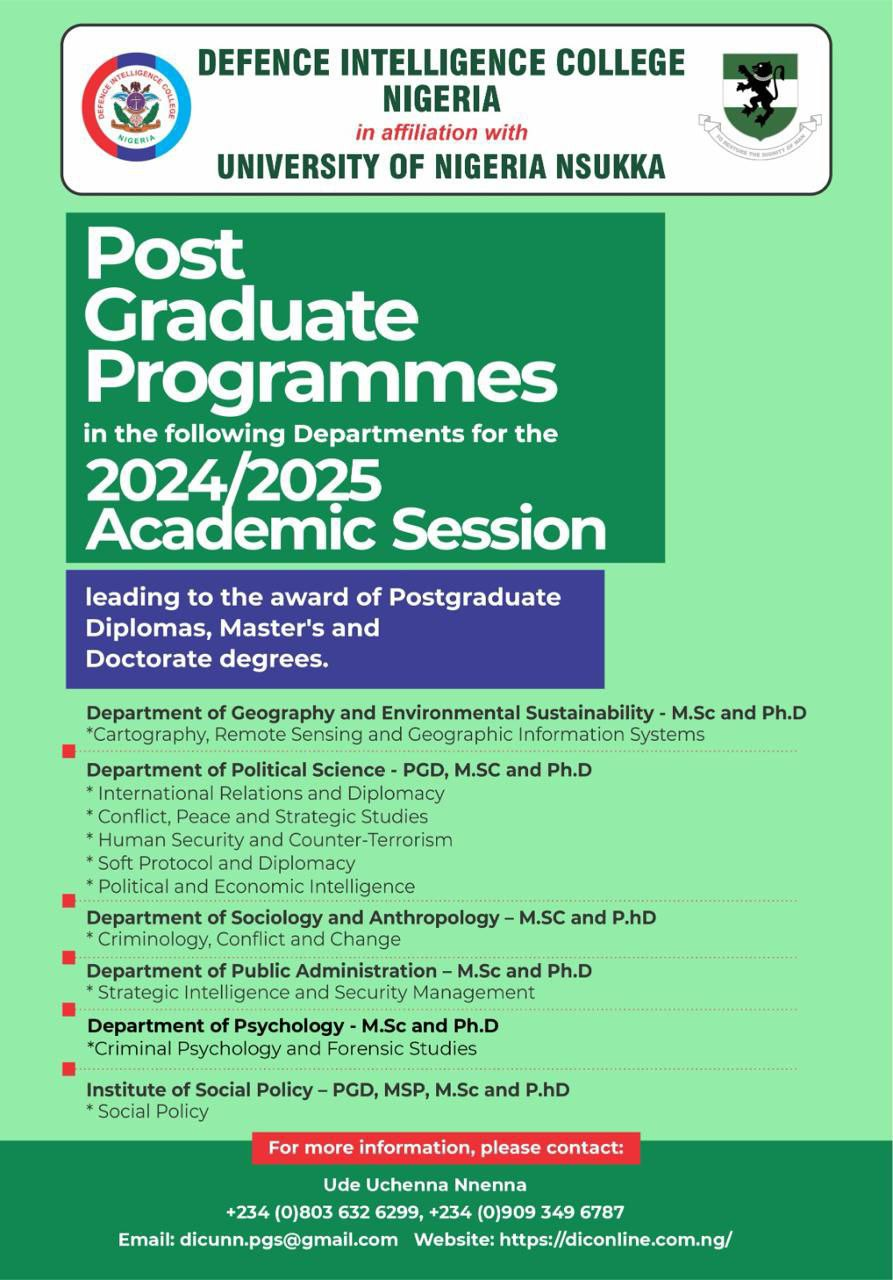
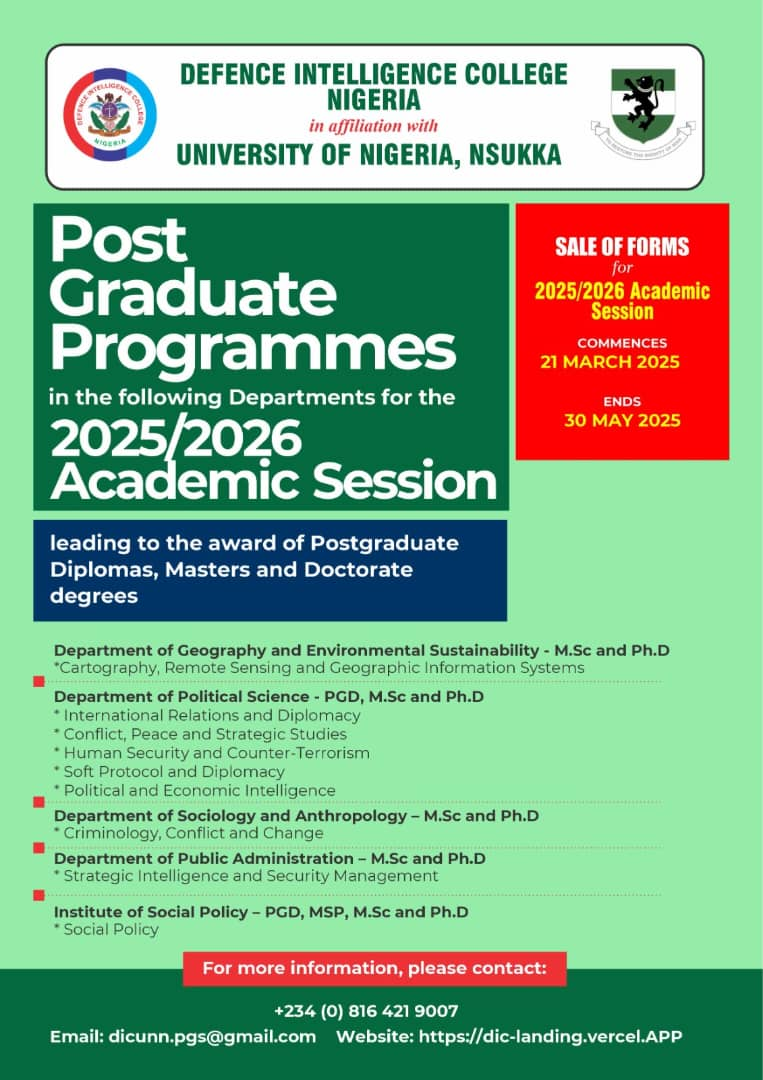
design(pg-program): changed pg-program content

diff --git a/dic/components/ui/svg-icon.tsx b/dic/components/ui/svg-icon.tsx
@@ -1,0 +1,144 @@
+export const HomeIcon = () => {
+  return (
+    <svg
+      xmlns="http://www.w3.org/2000/svg"
+      width="22"
+      height="22"
+      viewBox="0 0 1024 1024"
+    >
+      <path
+        fill="#5b63fb"
+        d="M946.5 505L534.6 93.4a31.93 31.93 0 0 0-45.2 0L77.5 505c-12 12-18.8 28.3-18.8 45.3c0 35.3 28.7 64 64 64h43.4V908c0 17.7 14.3 32 32 32H448V716h112v224h265.9c17.7 0 32-14.3 32-32V614.3h43.4c17 0 33.3-6.7 45.3-18.8c24.9-25 24.9-65.5-.1-90.5"
+      />
+    </svg>
+  );
+};
+
+export const AboutIcon = () => {
+  return (
+    <svg
+      xmlns="http://www.w3.org/2000/svg"
+      width="22"
+      height="22"
+      viewBox="0 0 20 20"
+    >
+      <path
+        fill="#5b63fb"
+        fill-rule="evenodd"
+        d="M18 10a8 8 0 1 1-16 0a8 8 0 0 1 16 0m-7-4a1 1 0 1 1-2 0a1 1 0 0 1 2 0M9 9a1 1 0 0 0 0 2v3a1 1 0 0 0 1 1h1a1 1 0 1 0 0-2v-3a1 1 0 0 0-1-1z"
+        clip-rule="evenodd"
+      />
+    </svg>
+  );
+};
+
+export const GalleryIcon = () => {
+  return (
+    <svg
+      xmlns="http://www.w3.org/2000/svg"
+      width="22"
+      height="22"
+      viewBox="0 0 24 24"
+    >
+      <path
+        fill="#5b63fb"
+        d="M18.512 10.077c0 .739-.625 1.338-1.396 1.338s-1.395-.6-1.395-1.338s.625-1.337 1.395-1.337s1.396.598 1.396 1.337"
+      />
+      <path
+        fill="#5b63fb"
+        fill-rule="evenodd"
+        d="M18.036 5.532c-1.06-.136-2.414-.136-4.123-.136h-3.826c-1.71 0-3.064 0-4.123.136c-1.09.141-1.974.437-2.67 1.104c-.696.668-1.005 1.514-1.152 2.56C2 10.21 2 11.508 2 13.147v.1c0 1.639 0 2.937.142 3.953c.147 1.045.456 1.891 1.152 2.558c.696.668 1.58.964 2.67 1.104C7.024 21 8.378 21 10.087 21h3.826c1.71 0 3.064 0 4.123-.137c1.09-.14 1.974-.436 2.67-1.104c.696-.667 1.005-1.513 1.152-2.558c.142-1.016.142-2.314.142-3.953v-.1c0-1.64 0-2.937-.142-3.953c-.147-1.045-.456-1.891-1.152-2.559c-.696-.667-1.58-.963-2.67-1.104M6.15 6.858c-.936.12-1.475.347-1.87.724c-.393.378-.629.894-.755 1.791c-.1.72-.123 1.62-.128 2.796l.47-.395c1.125-.943 2.819-.889 3.875.123l3.99 3.825a1.2 1.2 0 0 0 1.491.124l.278-.187a3.606 3.606 0 0 1 4.34.25l2.407 2.078c.098-.264.173-.58.227-.965c.128-.916.13-2.124.13-3.824s-.002-2.908-.13-3.825c-.126-.897-.362-1.413-.756-1.79c-.393-.378-.933-.604-1.869-.725c-.956-.123-2.216-.125-3.99-.125h-3.72c-1.774 0-3.034.002-3.99.125"
+        clip-rule="evenodd"
+      />
+      <path
+        fill="#5b63fb"
+        d="M17.086 2.61c-.86-.11-1.954-.11-3.319-.11h-3.09c-1.364 0-2.459 0-3.319.11c-.89.115-1.632.358-2.221.92a2.9 2.9 0 0 0-.724 1.12c.504-.23 1.074-.366 1.714-.45c1.084-.14 2.47-.14 4.22-.14h3.914c1.75 0 3.135 0 4.22.14c.558.073 1.064.186 1.519.366a2.9 2.9 0 0 0-.692-1.035c-.589-.563-1.331-.806-2.222-.92"
+      />
+    </svg>
+  );
+};
+
+export const DepartmentIcon = () => {
+  return (
+    <svg
+      xmlns="http://www.w3.org/2000/svg"
+      width="22"
+      height="22"
+      viewBox="0 0 24 24"
+    >
+      <path
+        fill="#5b63fb"
+        d="M18 15h-2v2h2m0-6h-2v2h2m2 6h-8v-2h2v-2h-2v-2h2v-2h-2V9h8M10 7H8V5h2m0 6H8V9h2m0 6H8v-2h2m0 6H8v-2h2M6 7H4V5h2m0 6H4V9h2m0 6H4v-2h2m0 6H4v-2h2m6-10V3H2v18h20V7z"
+      />
+    </svg>
+  );
+};
+
+export const CourseIcon = () => {
+  return (
+    <svg
+      xmlns="http://www.w3.org/2000/svg"
+      width="22"
+      height="22"
+      viewBox="0 0 26 26"
+    >
+      <path
+        fill="#5b63fb"
+        d="M9.875 0a1 1 0 0 0-.406.156S8.204.952 6.844 1.813c-1.36.86-2.873 1.808-3.219 2l-.063.03C2.306 4.618 2.045 5.884 2 6.594c-.003.033 0 .06 0 .095c-.011.266 0 .437 0 .437v13.063C2 22.087 4.213 23 6.313 23c.7 0 1.4-.113 2-.313c.4-.2.687-.6.687-1v-10.5c0-2.3.5-3.38 2-4.28c.4-.2 4.594-3.095 4.594-3.095c.2-.2.406-.606.406-.906v-.094c0-.4-.2-.706-.5-.906s-.7-.2-1 0c-.1.1-6.2 4.207-7.5 4.907c-1.3.8-2.513.993-2.813.593c-.093-.093-.174-.378-.187-.656v-.063c.001-.272.071-.784.625-1.125c.562-.313 1.957-1.204 3.313-2.062c.573-.363.644-.402 1.093-.688A1 1 0 0 0 11 2.5V1a1 1 0 0 0-1.125-1m8 3.5a1 1 0 0 0-.438.188s-5.034 3.387-5.906 3.968l-.031.032c-.724.543-1.153 1.189-1.344 1.78A3.3 3.3 0 0 0 10 10.5v.313a1 1 0 0 0 0 .093V23c0 1.9 2.188 3 4.188 3c.9 0 1.712-.194 2.312-.594c1.2-.7 7-5.218 7-5.218c.3-.2.5-.482.5-.782v-13c0-.5-.194-.8-.594-1c-.3-.2-.793-.106-1.093.094c-1.6 1.2-5.907 4.588-6.907 5.188c-1.4.8-2.719 1-3.219.5c-.2-.2-.187-.388-.187-.688q.008-.26.063-.438c.056-.174.17-.388.593-.718c.02-.016.01-.015.031-.031c.723-.483 2.934-1.99 4.376-2.97A1 1 0 0 0 19 6V4.5a1 1 0 0 0-1.125-1M22 10.813v2l-5 3.874v-2z"
+      />
+    </svg>
+  );
+};
+
+export const ProgramIcon = () => {
+  return (
+    <svg
+      xmlns="http://www.w3.org/2000/svg"
+      width="22"
+      height="22"
+      viewBox="0 0 24 24"
+    >
+      <path
+        fill="#5b63fb"
+        d="M5 13.18v2.81c0 .73.4 1.41 1.04 1.76l5 2.73c.6.33 1.32.33 1.92 0l5-2.73c.64-.35 1.04-1.03 1.04-1.76v-2.81l-6.04 3.3c-.6.33-1.32.33-1.92 0zm6.04-9.66l-8.43 4.6c-.69.38-.69 1.38 0 1.76l8.43 4.6c.6.33 1.32.33 1.92 0L21 10.09V16c0 .55.45 1 1 1s1-.45 1-1V9.59c0-.37-.2-.7-.52-.88l-9.52-5.19a2.04 2.04 0 0 0-1.92 0"
+      />
+    </svg>
+  );
+};
+
+export const NewsIcon = () => {
+  return (
+    <svg
+      xmlns="http://www.w3.org/2000/svg"
+      width="24"
+      height="24"
+      viewBox="0 0 24 24"
+    >
+      <path
+        fill="#5b63fb"
+        fill-rule="evenodd"
+        d="M18 4v3h3a1 1 0 0 1 1 1v10a3 3 0 0 1-3 3H5a3 3 0 0 1-3-3V4a1 1 0 0 1 1-1h14a1 1 0 0 1 1 1m2 14a1 1 0 1 1-2 0V9h2zM6 8a1 1 0 0 1 1-1h6a1 1 0 1 1 0 2H7a1 1 0 0 1-1-1m2 4a1 1 0 0 1 1-1h4a1 1 0 1 1 0 2H9a1 1 0 0 1-1-1"
+        clip-rule="evenodd"
+      />
+    </svg>
+  );
+};
+
+export const ContactIcon = () => {
+  return (
+    <svg
+      xmlns="http://www.w3.org/2000/svg"
+      width="22"
+      height="22"
+      viewBox="0 0 15 15"
+    >
+      <path
+        fill="#5b63fb"
+        fill-rule="evenodd"
+        d="M11 2H4V0H3v2H1.5A1.5 1.5 0 0 0 0 3.5v8A1.5 1.5 0 0 0 1.5 13h12a1.5 1.5 0 0 0 1.5-1.5v-8A1.5 1.5 0 0 0 13.5 2H12V0h-1zM3 6a2 2 0 1 1 4 0a2 2 0 0 1-4 0m-.618 4.618a2.927 2.927 0 0 1 5.236 0l.33.658A.5.5 0 0 1 7.5 12h-5a.5.5 0 0 1-.447-.724zM9 6h3V5H9zm0 3h3V8H9z"
+        clip-rule="evenodd"
+      />
+      <path fill="#5b63fb" d="M15 14v1H0v-1z" />
+    </svg>
+  );
+};

diff --git a/dic/app/(root)/pg-program/page.tsx b/dic/app/(root)/pg-program/page.tsx
@@ -1,6 +1,5 @@
 "use client";
 
-import ProgramCard from "./program-card";
 //import {programs} from '../home/mock';
 import Link from "next/link";
 import { useQuery } from "@tanstack/react-query";
@@ -57,7 +56,7 @@ const Page = () => {
           <div className="w-full lg:w-[48%]">
             <Image
               alt=""
-              src={"/PG-img.jpeg"}
+              src={"/flier.jpg"}
               width={200}
               height={200}
               style={{ width: "100%", height: "100%" }}
@@ -256,50 +255,6 @@ const Page = () => {
               least 3.50 CGPA on a 5-point scale. In addition, the candidate
               must satisfy the Departmental O'Level and /or Direct Entry general
               entry requirements for degree programmes.
-            </p>
-          </div>
-          <div className="my-6">
-            <h4 className="text-gray-900 text-lg underline font-semibold">
-              Application Form Fee
-            </h4>
-            <p className="text-gray-600 my-2 font-medium">PG Form - ₦30,000</p>
-          </div>
-          <div className="my-6">
-            <h4 className="text-gray-900 text-lg underline font-semibold">
-              Admission Acceptanace Fee
-            </h4>
-            <p className="text-gray-600 my-2 font-medium">PG Form - ₦30,000</p>
-            <p className="text-gray-600 my-2 font-medium">PGD ₦80,000</p>
-            <p className="text-gray-600 my-2 font-medium">M.Sc. ₦80,000</p>
-            <p className="text-gray-600 my-2 font-medium">PhD ₦100,000</p>
-          </div>
-          <div className="my-6">
-            <h4 className="text-gray-900 text-lg underline font-semibold">
-              Tuition
-            </h4>
-            <p className="text-gray-600 my-2 font-medium">
-              Generally, candidates can pay fully for their choice programme at
-              once before academic activities.
-            </p>
-            <p className="my-4 text-gray-600 font-medium">
-              PGD: Full payment required.
-            </p>
-            <p className="my-4 text-gray-600 font-medium">
-              M.Sc.: First Semester requires 75 per cent tuition payment, and to
-              be completed in Second Semester.
-            </p>
-            <p className="my-4 text-gray-600 font-medium">
-              PhD Tuition is to be made completely within 4 Semesters starting
-              with 50 percent before commencement of first semester.
-            </p>
-            <p className="text-gray-600 my-2 font-medium">
-              M.Sc. (3 Semesters) ₦2,100,000
-            </p>
-            <p className="text-gray-600 my-2 font-medium">
-              PGD (2 Semesters) ₦1,200,000
-            </p>
-            <p className="text-gray-600 my-2 font-medium">
-              PhD (6 semesters) ₦5,400,000
             </p>
           </div>
 

diff --git a/dic/app/(root)/home/navigation.tsx b/dic/app/(root)/home/navigation.tsx
@@ -2,10 +2,10 @@
 import { useState } from "react";
 import Link from "next/link";
 import Image from "next/image";
-import { X, Menu } from "lucide-react";
+import { X, Menu, icons } from "lucide-react";
 import InformationHeader from "./informationHeader";
-// import { useQuery } from '@tanstack/react-query';
-// import { strapiService } from '@/services/strapiService';
+import { AboutIcon, ContactIcon, CourseIcon, DepartmentIcon, GalleryIcon, HomeIcon, NewsIcon, ProgramIcon } from "@/components/ui/svg-icon";
+
 
 // Navigation Component
 
@@ -23,14 +23,14 @@ const Navigation = () => {
   };
 
   const navLinks = [
-    { href: "home", label: "Home" },
-    { href: "about", label: "About DIC" },
-    { href: "gallery", label: "DIC Gallery" },
-    { href: "departments", label: "Departments" },
-    { href: "courses", label: "Courses" },
-    { href: "/pg-program", label: "PG Program" },
-    { href: "/news", label: "News & Blog" },
-    { href: "/contact-us", label: "Contact Us" },
+    { href: "home", label: "Home", icon: <HomeIcon /> },
+    { href: "about", label: "About DIC", icon: <AboutIcon /> },
+    { href: "gallery", label: "DIC Gallery", icon: <GalleryIcon /> },
+    { href: "departments", label: "Departments", icon: <DepartmentIcon /> },
+    { href: "courses", label: "Courses", icon: <CourseIcon /> },
+    { href: "/pg-program", label: "PG Program", icon: <ProgramIcon /> },
+    { href: "/news", label: "News & Blog" , icon: <NewsIcon />},
+    { href: "/contact-us", label: "Contact Us", icon: <ContactIcon /> },
   ];
 
   return (
@@ -42,6 +42,7 @@ const Navigation = () => {
             {/* Logo */}
             <div className="flex-shrink-0">
               <Link href="/home">
+              
                 <Image
                   src="/logo.png"
                   alt="Defence Intelligence College"
@@ -53,14 +54,15 @@ const Navigation = () => {
             </div>
 
             {/* Desktop Navigation */}
-            <div className="flex gap-x-8">
+            <div className="flex gap-x-6">
               <div className="hidden lg:flex items-center lg:gap-x-2 xl:gap-x-6">
                 {navLinks.map((nav, id) => (
                   <Link
                     key={id}
                     href={nav.href}
-                    className="text-gray-800 min-w-fit md:text-[.8rem] lg:text-[.9rem] hover:text-blue-600 transition-colors"
+                    className="text-gray-800 flex items-center gap-1 min-w-fit md:text-[.8rem] lg:text-[.9rem] hover:text-blue-600 font-medium transition-colors"
                   >
+                    {nav.icon}
                     {nav.label}
                   </Link>
                 ))}
